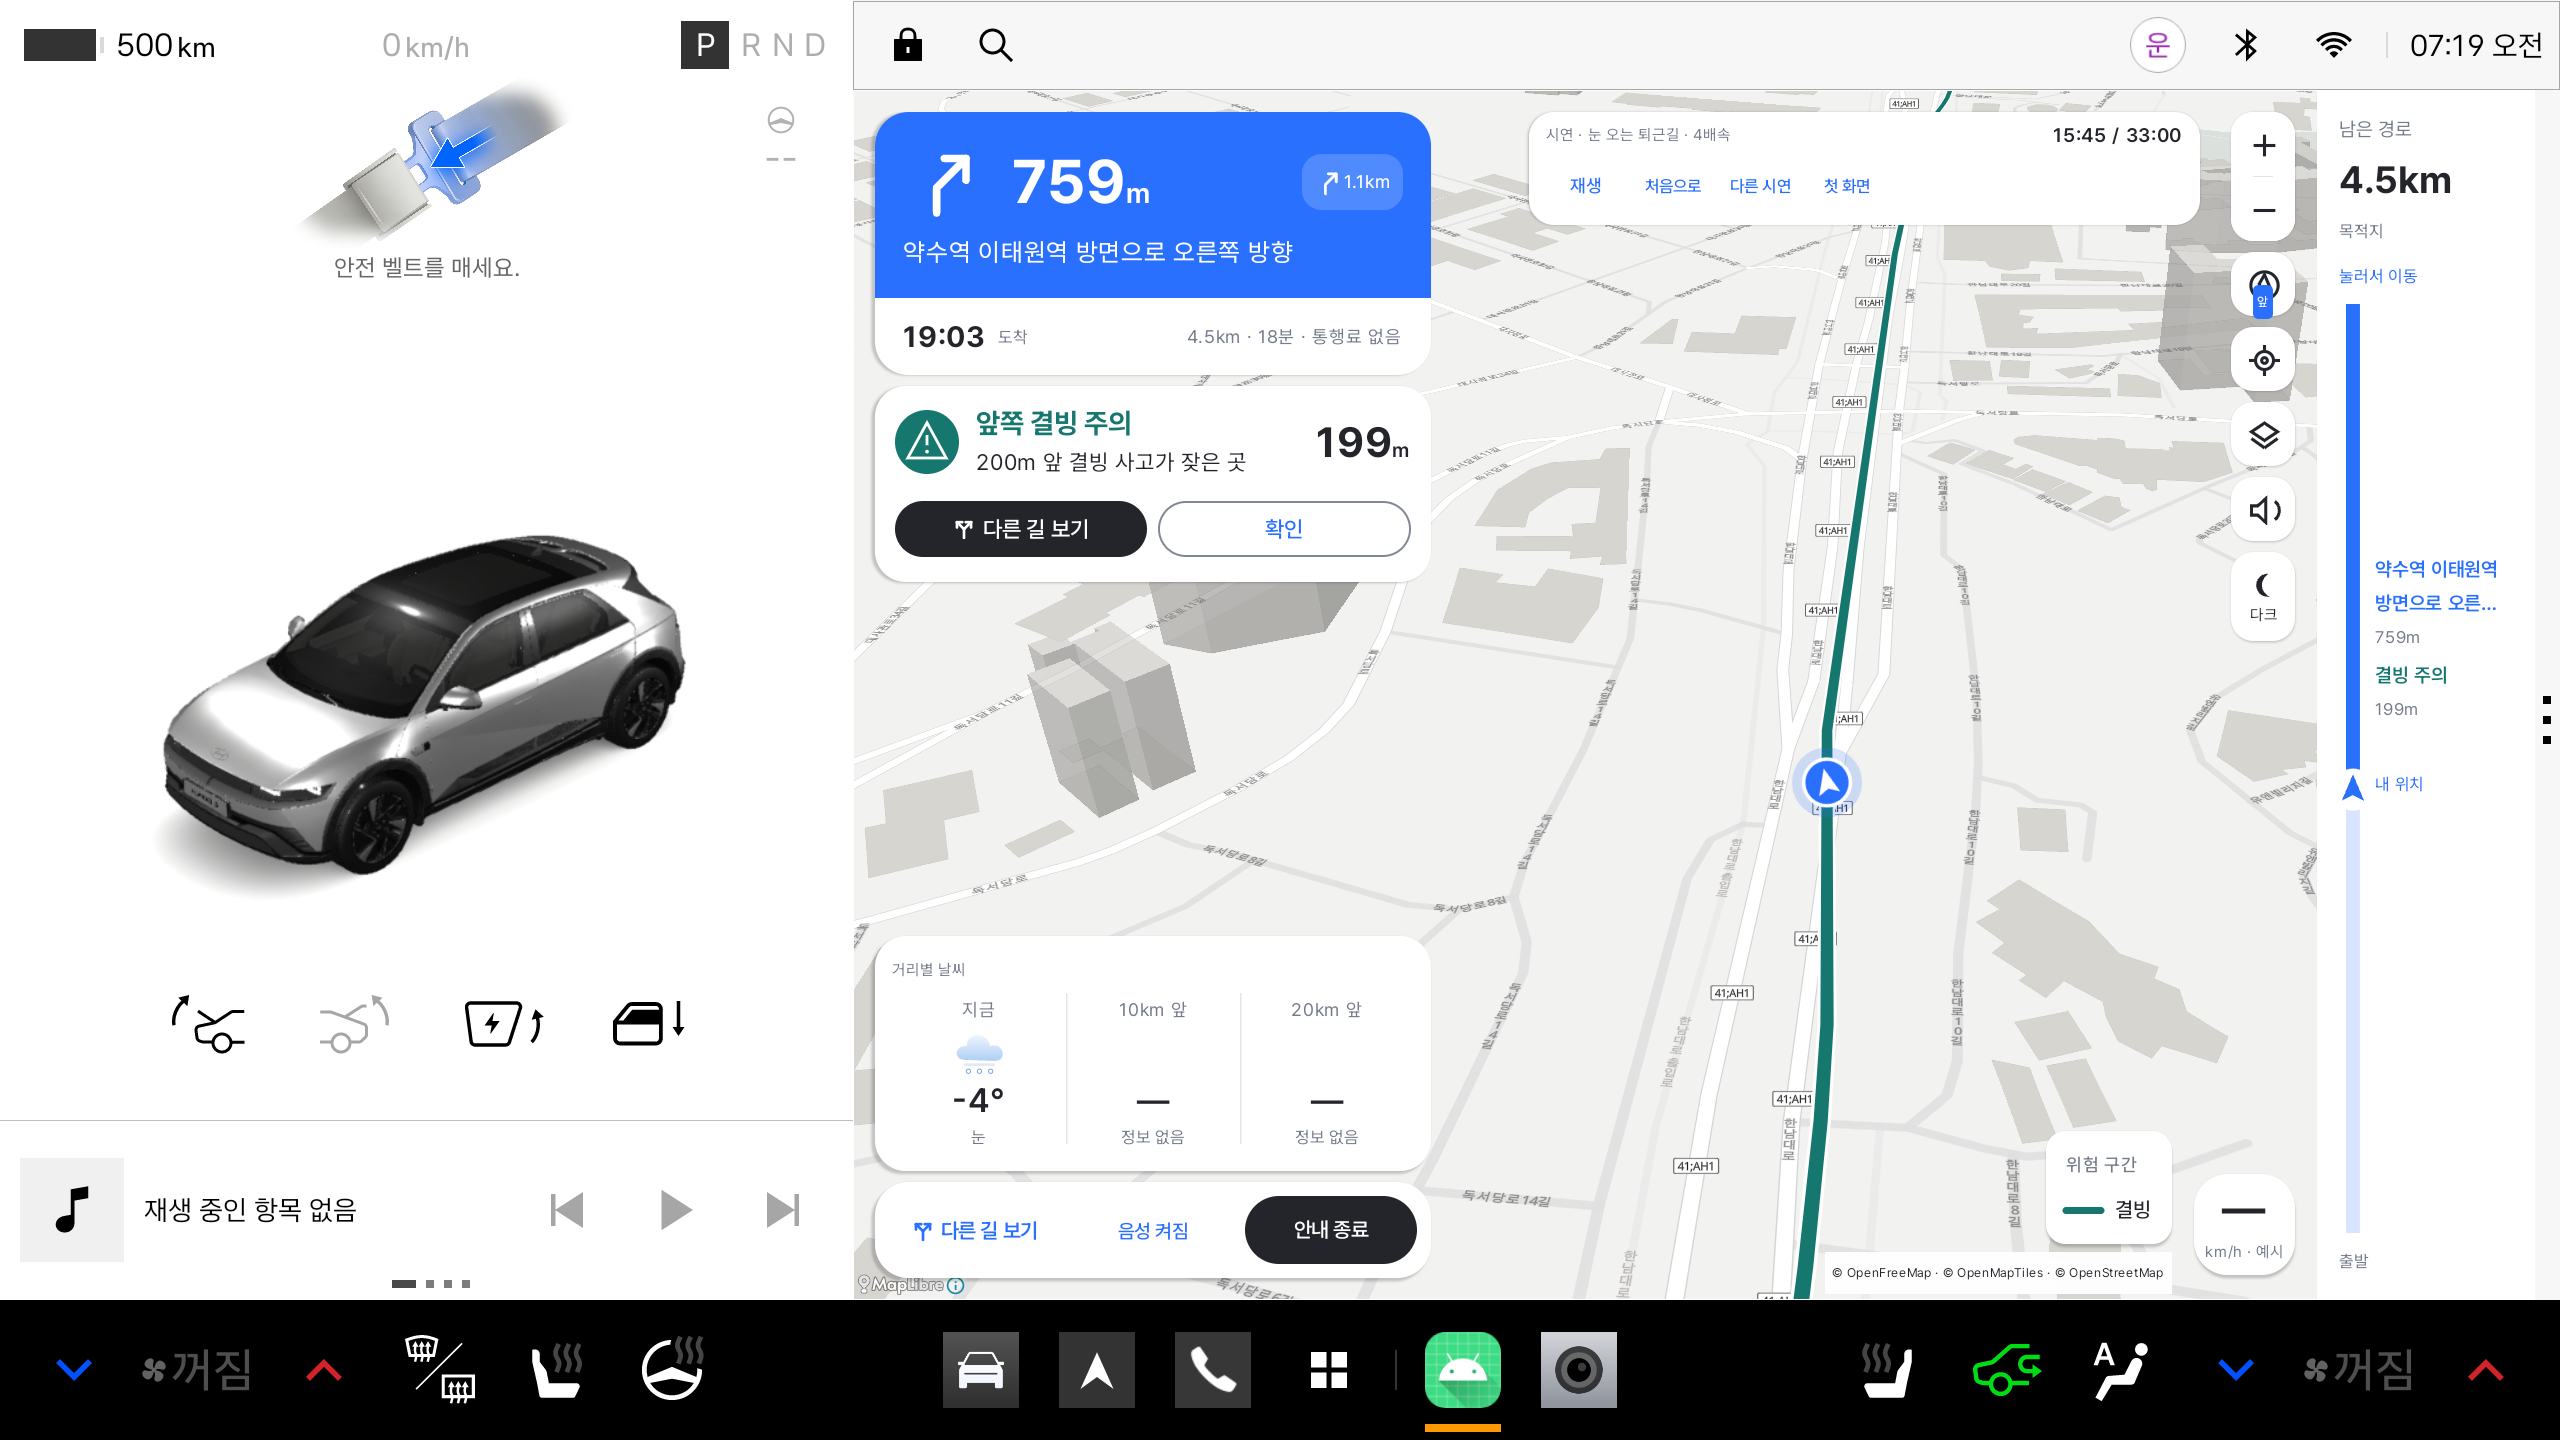
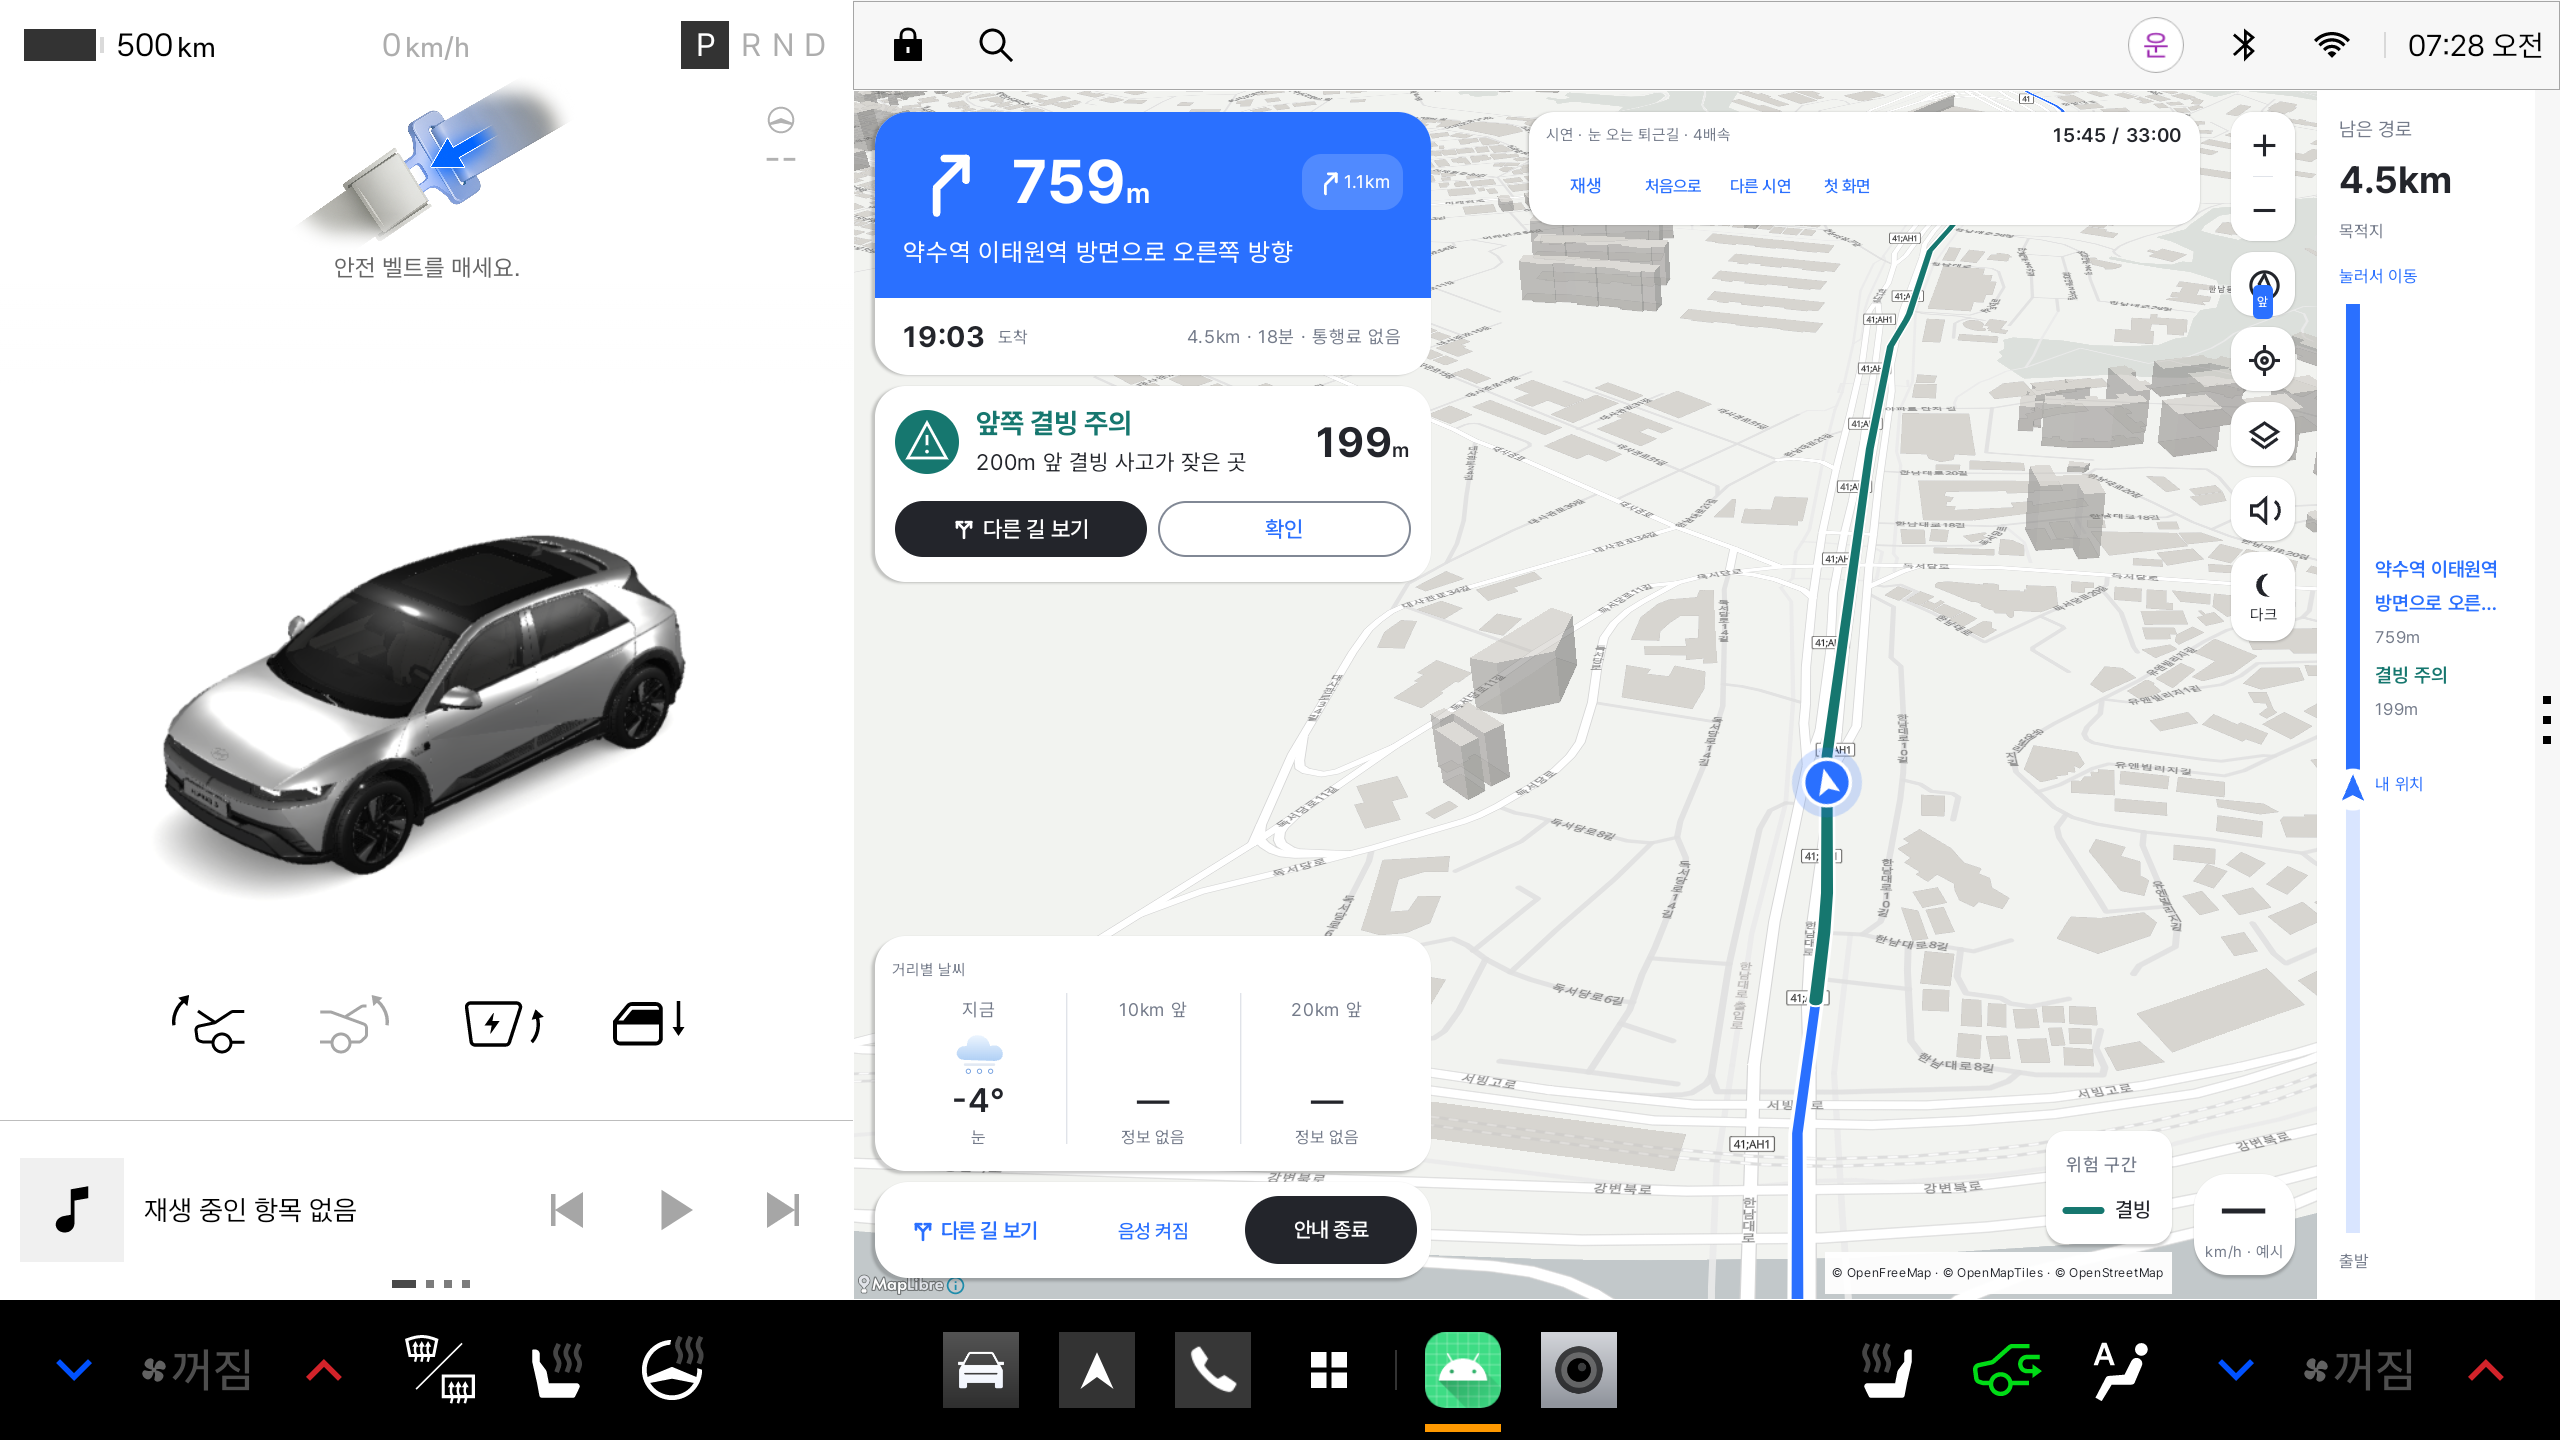
fix(map): 비교 확대와 안내 확대 배율 분리

diff --git a/app/src/main/java/com/example/pleosproj/ui/map/MapSurface.kt b/app/src/main/java/com/example/pleosproj/ui/map/MapSurface.kt
@@ -185,7 +185,8 @@ class MapSurface(context: Context, savedState: Bundle?) {
 
     fun zoomBy(amount: Double) {
         val loaded = map ?: return
-        zoomAdjustment = (zoomAdjustment + amount).coerceIn(-5.0, 3.0)
+        // 비교 중 확대는 안내로 돌아왔을 때의 확대 배율을 바꾸지 않는다.
+        if (comparison == null) zoomAdjustment = (zoomAdjustment + amount).coerceIn(-5.0, 3.0)
         loaded.animateCamera(CameraUpdateFactory.zoomBy(amount), 220)
     }
 

diff --git a/docs/screenshots/ple-50/README.md b/docs/screenshots/ple-50/README.md
@@ -8,6 +8,7 @@
 | [winter-compare-return.png](winter-compare-return.png) | 겨울 15:45에서 들어온 비교 화면의 복귀 버튼·평면 지도·숨긴 시점 선택입니다. |
 | [winter-compare-night.png](winter-compare-night.png) | 확대·전체 경로·주야간 조작 후에도 평면 비교를 유지합니다. |
 | [winter-returned-guidance.png](winter-returned-guidance.png) | 15:45의 경고·위치·정지 상태와 원래 운전석 시점을 유지해 복귀합니다. |
+| [winter-before-compare.png](winter-before-compare.png) | 비교 진입 전의 운전석 시점입니다. 비교 화면에서 확대해도 복귀 후 이 배율을 유지합니다. |
 | [rain-returned-guidance.png](rain-returned-guidance.png) | 폭우 08:25의 이전 안내·경고에 복귀합니다. |
 | [live-compare-return.png](live-compare-return.png) | 실제 안내의 다른 길 비교에서도 복귀 버튼을 시작 버튼 위에 배치합니다. |
 | [live-returned-guidance.png](live-returned-guidance.png) | 실제 안내 복귀 시 기존 경로의 진행률을 유지합니다. |
